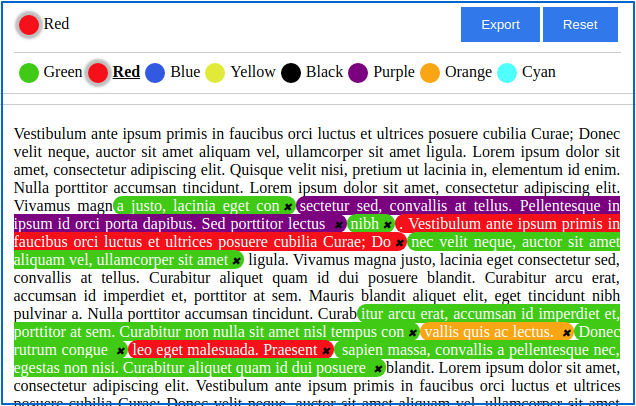
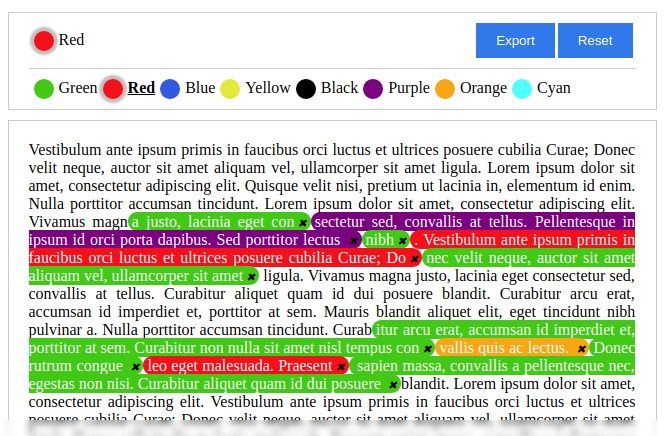
change theme

diff --git a/docs/example.html b/docs/example.html
@@ -1,0 +1,104 @@
+
+<!DOCTYPE html>
+<html lang="en-US">
+  <head>
+    <meta charset="UTF-8">
+
+<!-- Begin Jekyll SEO tag v2.4.0 -->
+<title>Text Highlighter</title>
+	<meta name="generator" content="Jekyll v3.7.3" />
+	<meta property="og:title" content="Cayman theme" />
+	<meta property="og:locale" content="en_US" />
+	<meta name="description" content="Cayman is a clean, responsive theme for GitHub Pages." />
+	<meta property="og:description" content="Cayman is a clean, responsive theme for GitHub Pages." />
+	<link rel="canonical" href="https://pages-themes.github.io/cayman/" />
+	<meta property="og:url" content="https://pages-themes.github.io/cayman/" />
+	<meta property="og:site_name" content="Cayman theme" />
+    <meta name="viewport" content="width=device-width, initial-scale=1">
+    <meta name="theme-color" content="#157878">
+    <link rel="stylesheet" href="https://pages-themes.github.io/cayman/assets/css/style.css?v=c6a71685a3835b7090b52f46f943cda7a8b933cc">
+
+    <script type="text/javascript" src="https://cdnjs.cloudflare.com/ajax/libs/jquery/3.3.1/jquery.min.js"></script>
+	<script type="text/javascript" src="../text-highlighter.js"></script>
+	<link rel="stylesheet" type="text/css" href="../text-highlighter.css">
+	<style type="text/css">
+		.container {
+			width: 50%;
+			margin: 0 auto;
+		}
+		h1 {
+			text-align: center;
+		}
+	</style>
+  </head>
+  <body>
+    <section class="page-header">
+      <h1 class="project-name">Text Highlighter</h1>
+      <h2 class="project-tagline">Select Any text and highlight them with multiple color</h2>
+      
+        <a href="https://github.com/tonmoynandy/text-highlighter" class="btn">View on GitHub</a>
+      
+        <a href="https://github.com/tonmoynandy/text-highlighter/archive/master.zip" class="btn">Download .zip</a>
+        
+    </section>
+
+    <section class="main-content">
+		<div class="left-panel" >
+			<div id="highlighter">
+				Vestibulum ante ipsum primis in faucibus orci luctus et ultrices posuere cubilia Curae; Donec velit neque, auctor sit amet aliquam vel, ullamcorper sit amet ligula. Lorem ipsum dolor sit amet, consectetur adipiscing elit. Quisque velit nisi, pretium ut lacinia in, elementum id enim.
+
+				Nulla porttitor accumsan tincidunt. Lorem ipsum dolor sit amet, consectetur adipiscing elit. Vivamus magna justo, lacinia eget consectetur sed, convallis at tellus.
+
+				Pellentesque in ipsum id orci porta dapibus. Sed porttitor lectus nibh. Vestibulum ante ipsum primis in faucibus orci luctus et ultrices posuere cubilia Curae; Donec velit neque, auctor sit amet aliquam vel, ullamcorper sit amet ligula.
+
+				Vivamus magna justo, lacinia eget consectetur sed, convallis at tellus. Curabitur aliquet quam id dui posuere blandit. Curabitur arcu erat, accumsan id imperdiet et, porttitor at sem.
+
+				Mauris blandit aliquet elit, eget tincidunt nibh pulvinar a. Nulla porttitor accumsan tincidunt. Curabitur arcu erat, accumsan id imperdiet et, porttitor at sem.
+
+				Curabitur non nulla sit amet nisl tempus convallis quis ac lectus. Donec rutrum congue leo eget malesuada. Praesent sapien massa, convallis a pellentesque nec, egestas non nisi.
+
+				Curabitur aliquet quam id dui posuere blandit. Lorem ipsum dolor sit amet, consectetur adipiscing elit. Vestibulum ante ipsum primis in faucibus orci luctus et ultrices posuere cubilia Curae; Donec velit neque, auctor sit amet aliquam vel, ullamcorper sit amet ligula.
+
+				Donec sollicitudin molestie malesuada. Praesent sapien massa, convallis a pellentesque nec, egestas non nisi. Vestibulum ante ipsum primis in faucibus orci luctus et ultrices posuere cubilia Curae; Donec velit neque, auctor sit amet aliquam vel, ullamcorper sit amet ligula.
+
+				Curabitur aliquet quam id dui posuere blandit. Cras ultricies ligula sed magna dictum porta. Donec sollicitudin molestie malesuada.
+
+				Nulla quis lorem ut libero malesuada feugiat. Vestibulum ac diam sit amet quam vehicula elementum sed sit amet dui. Praesent sapien massa, convallis a pellentesque nec, egestas non nisi.
+
+				Vestibulum ante ipsum primis in faucibus orci luctus et ultrices posuere cubilia Curae; Donec velit neque, auctor sit amet aliquam vel, ullamcorper sit amet ligula. Praesent sapien massa, convallis a pellentesque nec, egestas non nisi. Donec sollicitudin molestie malesuada.
+
+				Pellentesque in ipsum id orci porta dapibus. Vivamus suscipit tortor eget felis porttitor volutpat. Cras ultricies ligula sed magna dictum porta.
+
+				Vivamus suscipit tortor eget felis porttitor volutpat. Vestibulum ante ipsum primis in faucibus orci luctus et ultrices posuere cubilia Curae; Donec velit neque, auctor sit amet aliquam vel, ullamcorper sit amet ligula. Proin eget tortor risus.
+
+				Pellentesque in ipsum id orci porta dapibus. Quisque velit nisi, pretium ut lacinia in, elementum id enim. Pellentesque in ipsum id orci porta dapibus.
+
+				Donec rutrum congue leo eget malesuada. Donec sollicitudin molestie malesuada. Vestibulum ante ipsum primis in faucibus orci luctus et ultrices posuere cubilia Curae; Donec velit neque, auctor sit amet aliquam vel, ullamcorper sit amet ligula.
+		</div>
+		</div>
+		
+		<div style="clear:both"></div>
+      <footer class="site-footer" style="text-align: center;">
+        
+          <span class="site-footer-owner"><a href="https://github.com/tonmoynandy/text-highlighter">Text Highlighter</a> is maintained by Tonmoy Nandy.</span>
+        </span>
+      </footer>
+    </section>
+
+<script type="text/javascript">
+	const selector1 = new TextSelector({
+		selector : '#highlighter',
+		items : {
+			'Green' : { 'color' : "#14c917" },
+			'Red' : { 'color' : "#ff0000" },
+			'Blue' : { 'color' : "#225fe2" },
+			'Yellow' : { 'color' : "#e2e837" },
+			'Black' : {'color' : '#000000'},
+			'Purple' : {'color' : '#800080'},
+			'Orange' : {'color': '#FFA500'},
+			'Cyan' : {'color' :'#00FFFF'},
+		}
+	});
+</script>    
+  </body>
+</html>

diff --git a/docs/index.html b/docs/index.html
@@ -5,19 +5,15 @@
     <meta charset="UTF-8">
 
 <!-- Begin Jekyll SEO tag v2.4.0 -->
-<title>Cayman theme | Cayman is a clean, responsive theme for GitHub Pages.</title>
-<meta name="generator" content="Jekyll v3.7.3" />
-<meta property="og:title" content="Cayman theme" />
-<meta property="og:locale" content="en_US" />
-<meta name="description" content="Cayman is a clean, responsive theme for GitHub Pages." />
-<meta property="og:description" content="Cayman is a clean, responsive theme for GitHub Pages." />
-<link rel="canonical" href="https://pages-themes.github.io/cayman/" />
-<meta property="og:url" content="https://pages-themes.github.io/cayman/" />
-<meta property="og:site_name" content="Cayman theme" />
-<script type="application/ld+json">
-{"name":"Cayman theme","description":"Cayman is a clean, responsive theme for GitHub Pages.","@type":"WebSite","url":"https://pages-themes.github.io/cayman/","headline":"Cayman theme","@context":"http://schema.org"}</script>
-<!-- End Jekyll SEO tag -->
-
+<title>Text Highlighter</title>
+	<meta name="generator" content="Jekyll v3.7.3" />
+	<meta property="og:title" content="Cayman theme" />
+	<meta property="og:locale" content="en_US" />
+	<meta name="description" content="Cayman is a clean, responsive theme for GitHub Pages." />
+	<meta property="og:description" content="Cayman is a clean, responsive theme for GitHub Pages." />
+	<link rel="canonical" href="https://pages-themes.github.io/cayman/" />
+	<meta property="og:url" content="https://pages-themes.github.io/cayman/" />
+	<meta property="og:site_name" content="Cayman theme" />
     <meta name="viewport" content="width=device-width, initial-scale=1">
     <meta name="theme-color" content="#157878">
     <link rel="stylesheet" href="https://pages-themes.github.io/cayman/assets/css/style.css?v=c6a71685a3835b7090b52f46f943cda7a8b933cc">
@@ -29,18 +25,68 @@
       
         <a href="https://github.com/tonmoynandy/text-highlighter" class="btn">View on GitHub</a>
       
-      
         <a href="https://github.com/tonmoynandy/text-highlighter/archive/master.zip" class="btn">Download .zip</a>
+        <a href="./example.html" class="btn">Example</a>
       
     </section>
 
     <section class="main-content">
-	<p><a href="../example/index.html">Demo</a></p>
-      <footer class="site-footer">
+		<div class="left-panel" style="text-align: center;border-bottom: solid 1px #eff0f1;padding-bottom:  20px;" >
+			<img src="./snape-shot.png"  />
+		</div>
+		<div class="right-panel" style="margin-top: 20px;">
+							
+				<h2 id="installation">Installation</h2>
+
+				<p>add 	<code class="highlighter-rouge">jquery.js</code>, 
+						<code class="highlighter-rouge">text-highlighter.min.js</code> or <code class="highlighter-rouge">text-highlighter.js</code></p>
+
+				<p>and for styling <code class="highlighter-rouge">text-highlighter.min.css</code> or <code class="highlighter-rouge">text-highlighter.css</code></p>
+
+				<h2 id="usage">Usage</h2>
+
+				<h3 id="html">HTML</h3>
+
+				<div class="highlighter-rouge"><div class="highlight">
+<pre class="highlight"><code>&lt;div id="highlighter"&gt;
+.... content ...
+&lt;/div&gt;
+</code></pre></div></div>
+
+				<h3 id="javascript">Javascript</h3>
+				<div class="highlighter-rouge"><div class="highlight"><pre class="highlight">
+<code>const selector = new TextSelector({
+	selector : '#highlighter',
+	items : {
+		'Green' : { 'color' : "#14c917" },
+		'Red' : { 'color' : "#ff0000" },
+		'Blue' : { 'color' : "#225fe2" },
+		...
+	}
+});
+</code></pre></div></div>
+
+				<h2 id="description-of-options">Description of options</h2>
+				<div class="highlighter-rouge"><div class="highlight"><pre class="highlight">
+<code>
+`get all selected items` : selector.getAllItems()
+`set Color Codes` : selector.setItem({
+					'Green' : { 'color' : "#14c917" },
+					'Red' : { 'color' : "#ff0000" },
+					'Blue' : { 'color' : "#225fe2" },
+					...
+				});
+
+`reset`	 : selector.reset()
+</code></pre></div></div>
+
+
+		</div>
+		<div style="clear:both"></div>
+      <footer class="site-footer" style="text-align: center;">
         
-          <span class="site-footer-owner"><a href="https://github.com/pages-themes/cayman">cayman</a> is maintained by <a href="https://github.com/pages-themes">pages-themes</a>.</span>
-        
-        <span class="site-footer-credits">This page was generated by <a href="https://pages.github.com">GitHub Pages</a>.</span>
+          <span class="site-footer-owner"><a href="https://github.com/tonmoynandy/text-highlighter">Text Highlighter</a> is maintained by Tonmoy Nandy.</span>
+        </span>
       </footer>
     </section>
 
